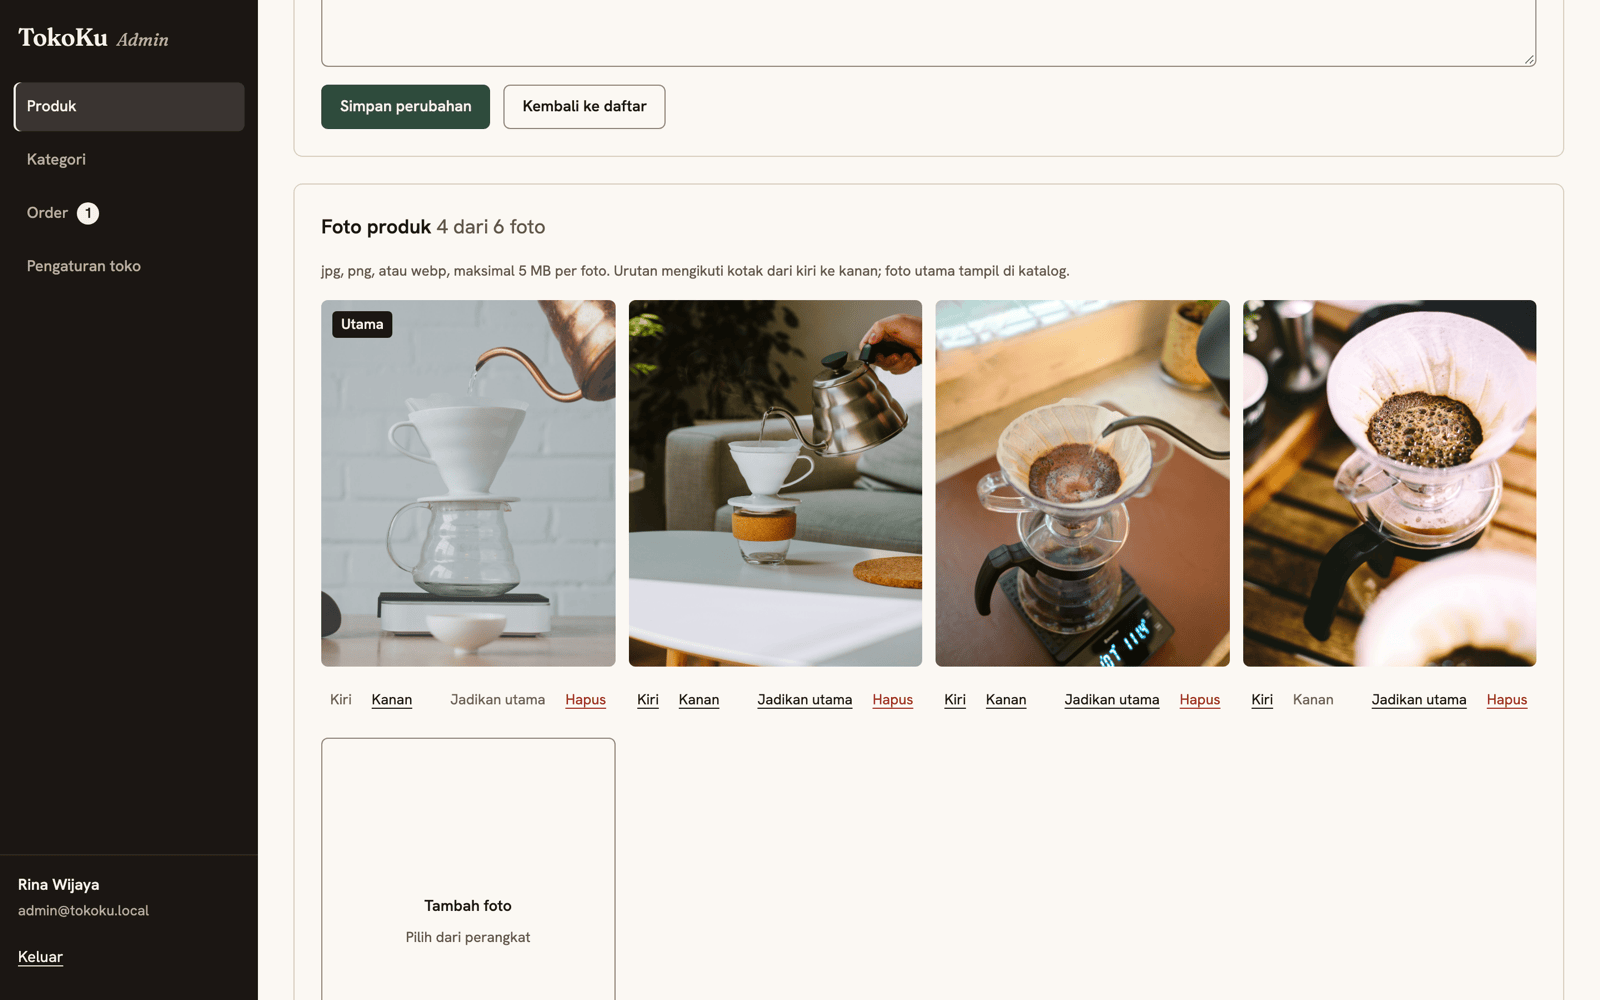
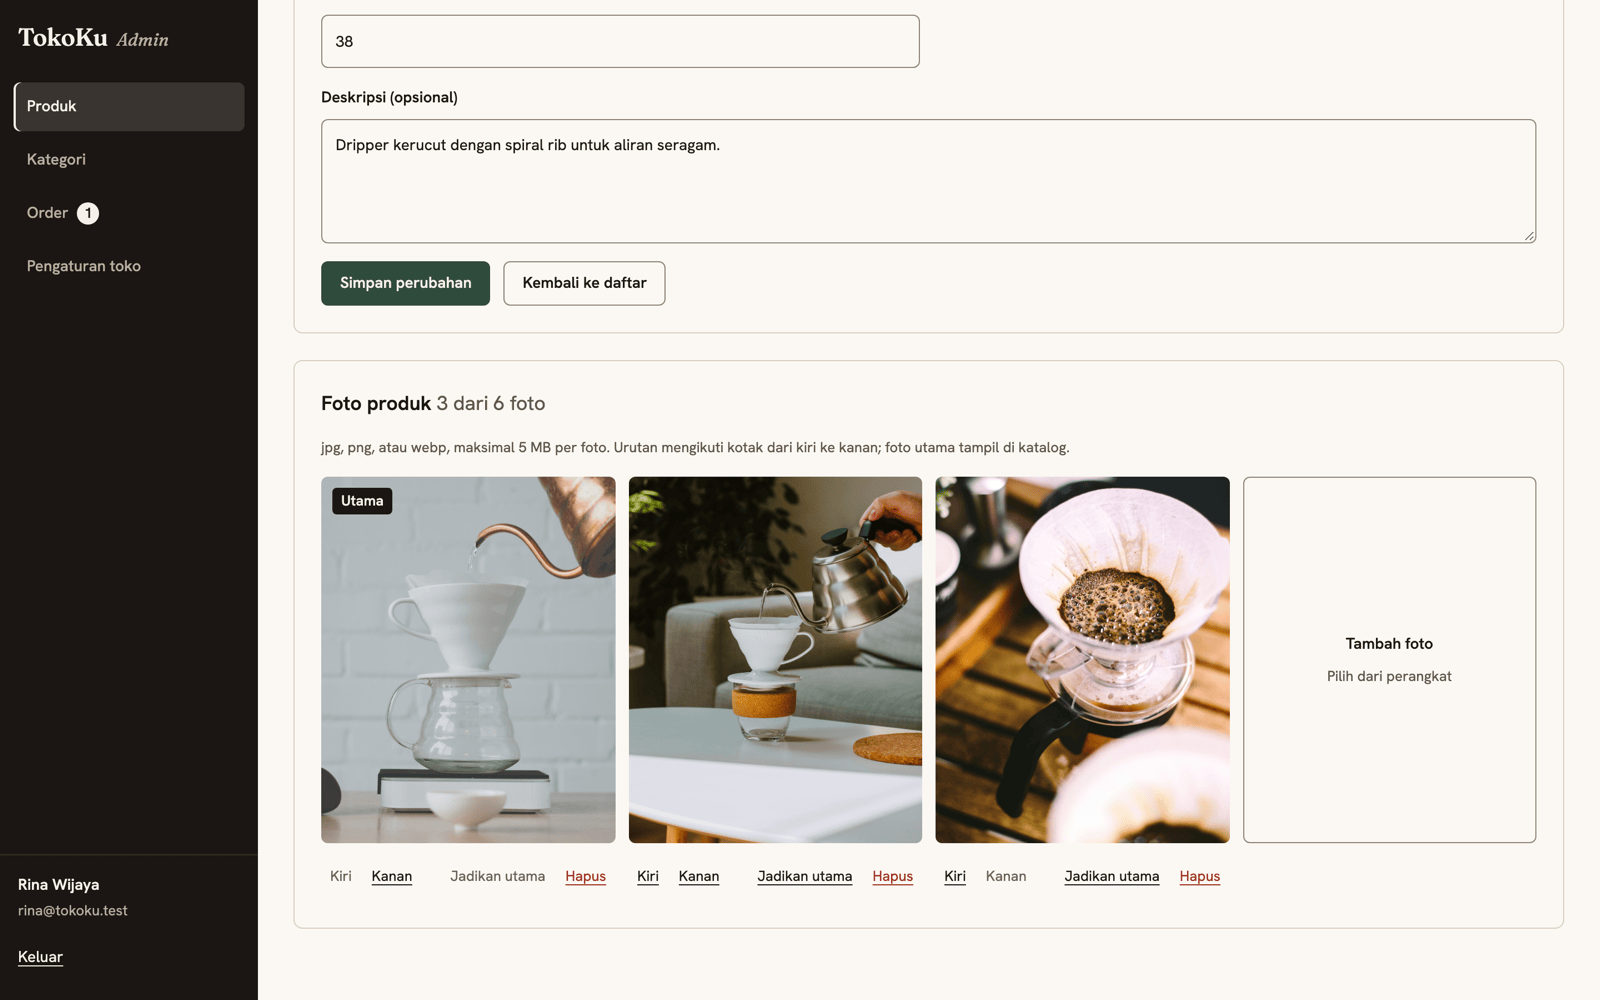
feat(portfolio): urutan katalog demo, foto lebih senada, admin demo rina@tokoku.test, ambil ulang screenshot

diff --git a/docs/portfolio/foto-produk/CREDITS.md b/docs/portfolio/foto-produk/CREDITS.md
@@ -7,26 +7,26 @@ Semua foto dari **Unsplash** (https://unsplash.com), diunduh lewat tautan unduh 
 
 | Berkas | Produk | Judul | Fotografer | Halaman |
 | --- | --- | --- | --- | --- |
+| flores-1.jpg | Kopi Arabika Flores Bajawa 250g | Brown coffee beans on brown wooden table | Anastasiia Chepinska | https://unsplash.com/photos/lcfH0p6emhw |
+| frenchpress-1.jpg | French Press 600ml | grayscale photography of coffee press | Sean Benesh | https://unsplash.com/photos/u5GAr5XyW1Y |
 | gayo-1.jpg | Kopi Arabika Gayo 250g (utama) | brown coffee beans on white table | Nicolas Solerieu | https://unsplash.com/photos/GSnb5l2yc2M |
 | gayo-2.jpg | Kopi Arabika Gayo 250g | a white bowl filled with coffee beans on top of a table | pariwat pannium | https://unsplash.com/photos/10lCujnC8LU |
 | gayo-3.jpg | Kopi Arabika Gayo 250g | Roasted coffee beans fill the frame | Indra Projects | https://unsplash.com/photos/8XsKqUYKlDk |
 | gayo-4.jpg | Kopi Arabika Gayo 250g | brown coffee beans on brown wooden surface | Nathan Dumlao | https://unsplash.com/photos/PDipEilB0b8 |
-| toraja-1.jpg | Kopi Arabika Toraja Sapan 250g | A sack filled with coffee beans and a scoop | Sergey Kotenev | https://unsplash.com/photos/UK6tuYeWq-E |
-| flores-1.jpg | Kopi Arabika Flores Bajawa 250g | Brown coffee beans on brown wooden table | Anastasiia Chepinska | https://unsplash.com/photos/lcfH0p6emhw |
-| v60-1.jpg | Dripper V60 Keramik 02 (utama) | clear glass pitcher | Julien Labelle | https://unsplash.com/photos/G163WX71GFE |
-| v60-2.jpg | Dripper V60 Keramik 02 | White ceramic teacup on white ceramic plate | Goran Ivos | https://unsplash.com/photos/K20IH6elzn8 |
-| v60-3.jpg | Dripper V60 Keramik 02 | A coffee pot on top of a scale on a table | Mona Jain | https://unsplash.com/photos/tUdvutlSYfE |
-| v60-4.jpg | Dripper V60 Keramik 02 | Shallow focus photo coffee decanter | Di Bella Coffee | https://unsplash.com/photos/Ko7PFAommGE |
-| frenchpress-1.jpg | French Press 600ml | grayscale photography of coffee press | Sean Benesh | https://unsplash.com/photos/u5GAr5XyW1Y |
-| teko-1.jpg | Teko Leher Angsa 600ml | black kettle on brown wooden table | Lawrence Aritao | https://unsplash.com/photos/FnsARzyfKHU |
-| grinder-1.jpg | Grinder Manual Burr Keramik (utama) | brown and black coffee grinder | Ashkan Forouzani | https://unsplash.com/photos/2AWQLHn7VLI |
-| grinder-2.jpg | Grinder Manual Burr Keramik | brown coffee grinder | Ashkan Forouzani | https://unsplash.com/photos/UstAaR0YnnI |
-| grinder-3.jpg | Grinder Manual Burr Keramik | A person using a grinder on a wooden table | Simon Kadula | https://unsplash.com/photos/2ovBrbfQr0Y |
-| timbangan-1.jpg | Timbangan Kopi Digital 0.1g | mug on scale | Battlecreek Coffee Roasters | https://unsplash.com/photos/K625u3cik4E |
+| grinder-1.jpg | Grinder Manual Burr Keramik (utama) | Three hand-crank coffee grinders on a white background | John Sin | https://unsplash.com/photos/SkwNFzLHj1Y |
+| grinder-2.jpg | Grinder Manual Burr Keramik | A person using a grinder on a wooden table | Simon Kadula | https://unsplash.com/photos/2ovBrbfQr0Y |
+| grinder-3.jpg | Grinder Manual Burr Keramik | an overhead view of a coffee grinder and a cup of coffee | Oskar Kadaksoo | https://unsplash.com/photos/8c6DbXcc4Zg |
 | mug-1.jpg | Mug Keramik Matte 300ml | White and beige ceramic mug on black surface | Nong (californong) | https://unsplash.com/photos/2dDJdOlA3CY |
 | mug-2.jpg | Mug Keramik Matte 300ml (utama) | top view of white ceramic coffee mug | Ronaldo Arthur Vidal | https://unsplash.com/photos/Cdz_lvnl37k |
 | mug-3.jpg | Mug Keramik Matte 300ml | White ceramic mug on white surface | Alexandr Marynkin | https://unsplash.com/photos/oJ9CgpidOco |
 | mug-4.jpg | Mug Keramik Matte 300ml | White ceramic mug with coffee | Andrew Neel | https://unsplash.com/photos/Zgq3cqztoLI |
-| toples-1.jpg | Toples Kedap Udara 500g | An empty glass jar with a black metal lid on a wooden surface | Kier in Sight Archives | https://unsplash.com/photos/b29z0iltxk4 |
+| teko-1.jpg | Teko Leher Angsa 600ml | black kettle on brown wooden table | Lawrence Aritao | https://unsplash.com/photos/FnsARzyfKHU |
+| timbangan-1.jpg | Timbangan Kopi Digital 0.1g (utama) | A coffee pot on top of a scale on a table | Mona Jain | https://unsplash.com/photos/tUdvutlSYfE |
+| timbangan-2.jpg | Timbangan Kopi Digital 0.1g | coffee beans on top of white cube scale in closeup photography | Nathan Dumlao | https://unsplash.com/photos/MSlZyJwYJlw |
+| toples-1.jpg | Toples Kedap Udara 500g | jar of coffee beans | Anastasia Zhenina | https://unsplash.com/photos/SjEjg7a7OBY |
+| toraja-1.jpg | Kopi Arabika Toraja Sapan 250g | A sack filled with coffee beans and a scoop | Sergey Kotenev | https://unsplash.com/photos/UK6tuYeWq-E |
+| v60-1.jpg | Dripper V60 Keramik 02 (utama) | clear glass pitcher | Julien Labelle | https://unsplash.com/photos/G163WX71GFE |
+| v60-2.jpg | Dripper V60 Keramik 02 | White ceramic teacup on white ceramic plate | Goran Ivos | https://unsplash.com/photos/K20IH6elzn8 |
+| v60-3.jpg | Dripper V60 Keramik 02 | Shallow focus photo coffee decanter | Di Bella Coffee | https://unsplash.com/photos/Ko7PFAommGE |
 
-Catatan: foto grinder memperlihatkan tulisan generik "Coffee" pada badan alat, bukan merek dagang. Foto "mug on scale" dari akun Battlecreek Coffee Roasters; tidak ada merek terbaca pada bingkai yang dipakai.
+Catatan: tidak ada merek atau tulisan terbaca pada foto yang dipakai. Foto yang diganti pada 12 November 2026 karena tidak senada (latar teal, mug kuning, toples bertutup hitam, tulisan "Coffee") sudah dibuang dari daftar dan dari folder.

diff --git a/docs/portfolio/tokoku/README.md b/docs/portfolio/tokoku/README.md
@@ -28,7 +28,7 @@ Foto produk tidak ada di repo (lisensi Unsplash tidak menyinggung penyimpanan di
 ## Data demo (`scripts/portfolio-seed.mjs`)
 
 - Toko: TokoKu, Jl. Braga No. 42 Bandung, 022-5550-1234, halo@tokoku.test, Senin sampai Sabtu 09.00 sampai 17.00; ongkir Rp 15.000, gratis di atas Rp 500.000.
-- 10 produk aktif di 4 kategori: Biji Kopi Single Origin (Gayo, Toraja Sapan, Flores Bajawa), Alat Seduh Manual (V60, French Press, teko leher angsa), Grinder dan Timbangan, Gelas dan Aksesori (mug, toples). Gayo, V60, grinder, dan mug punya 3 sampai 4 foto.
+- 10 produk aktif di 4 kategori, dibuat dalam urutan khusus karena sort "Terbaru" memakai id: baris pertama beranda = Gayo, V60, grinder, mug (logika sort aplikasi tidak diubah). Gayo, V60, grinder, mug, dan timbangan punya 2 sampai 4 foto.
 - 6 pembeli `@surel.test` dan 12 pesanan selama 7 hari: 3 selesai, 2 dikirim, 1 siap diambil, 1 diproses, 3 dibayar (perlu diproses), 2 menunggu pembayaran; campuran ambil di toko dan kirim.
-- Admin tampil sebagai "Rina Wijaya" (`admin@tokoku.local`, password di `.dev-admin.env`).
+- Admin demo "Rina Wijaya" (`rina@tokoku.test`; seed mengganti email di DB dan `.dev-admin.env`, password tetap di `.dev-admin.env`).
 - Kata sandi pembeli demo ada di `.demo-credentials` di folder ini (di-gitignore, tidak ikut commit).
